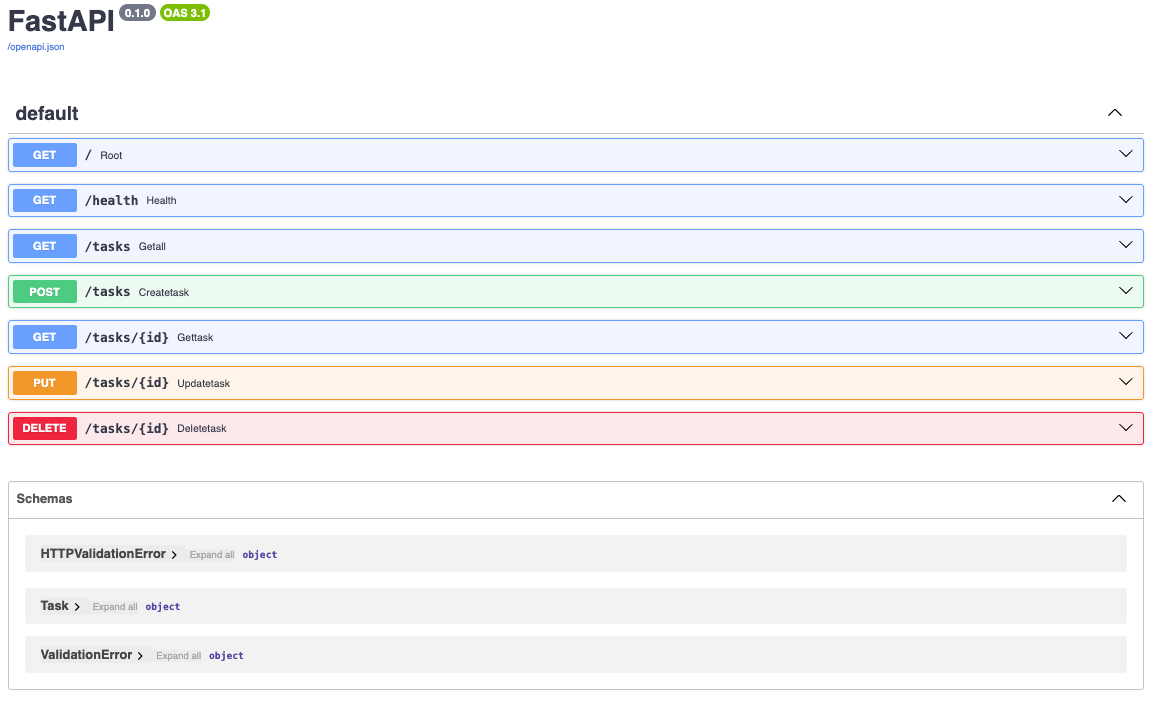
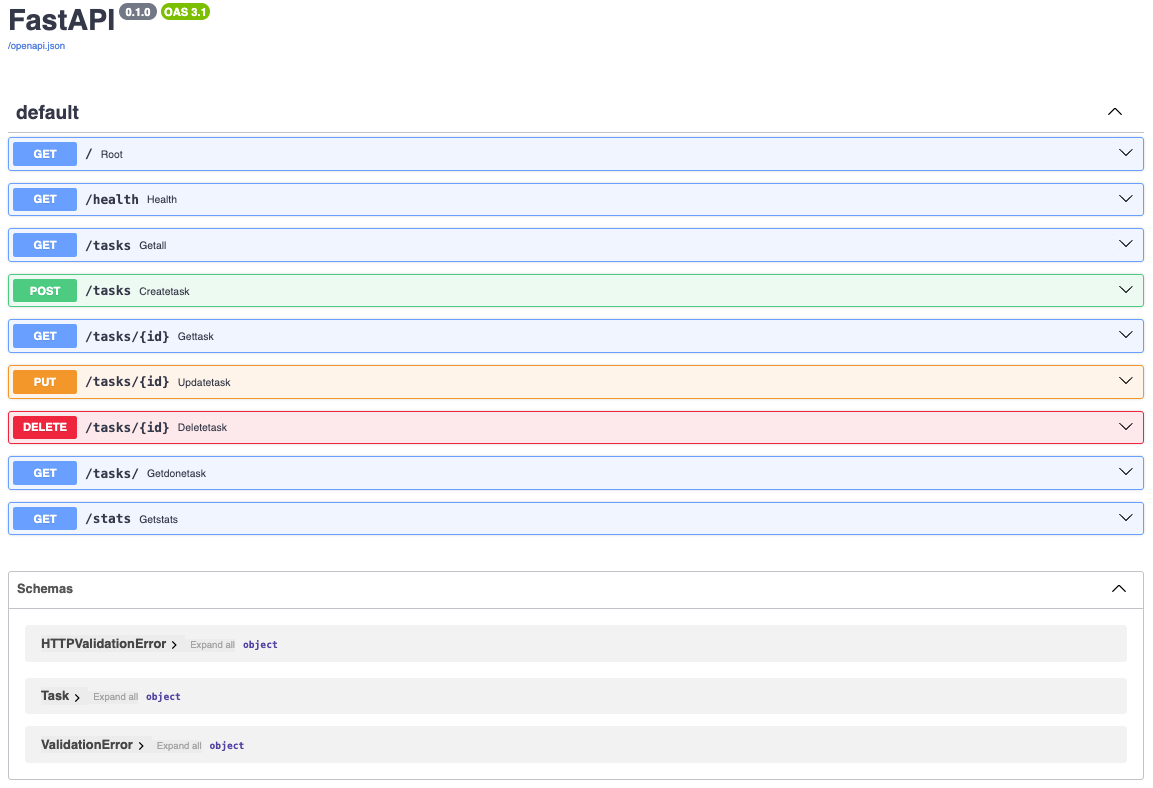
Extras: Query by done and Tasks stats

diff --git a/main.py b/main.py
@@ -34,6 +34,33 @@ async def getTask(id: int):
   else:
     raise HTTPException(status_code=404, detail={"error": f"Task {id} not found"})
 
+@app.get("/tasks/", description="Filter task by done")
+async def getDoneTask(done: bool = True):
+  doneTask = []
+
+  for i in range(len(tasks)):
+    if tasks[i].get("done") == done:
+      doneTask.append(tasks[i])
+
+  if not doneTask:
+    raise HTTPException(status_code=404, detail={"error": "No Task Found"})
+  
+  return doneTask
+
+@app.get("/stats", description="Provides stats of tasks")
+async def getStats():
+  if not tasks:
+    raise HTTPException(status_code=404, detail={"error": "No Task Found"})
+  
+  totalTask = len(tasks)
+  countDone = 0
+
+  for i in range(totalTask):
+    if tasks[i].get("done") == True:
+      countDone += 1
+
+  return {"total": totalTask, "done": countDone, "open": totalTask - countDone}
+
 @app.post("/tasks", status_code=201, description="Create a new task")
 async def createTask(task: Task):
   if not task.title.strip():

diff --git a/README.md b/README.md
@@ -52,15 +52,17 @@ The API will be available at:
 
 ## API Endpoints
 
-| Method | Endpoint      | Description             |
-| ------ | ------------- | ----------------------- |
-| GET    | `/`           | Home                    |
-| GET    | `/health`     | Check API status.       |
-| GET    | `/tasks`      | Retrieve all tasks      |
-| GET    | `/tasks/{id}` | Retrieve a task by ID   |
-| POST   | `/tasks`      | Create a new task       |
-| PUT    | `/tasks/{id}` | Update an existing task |
-| DELETE | `/tasks/{id}` | Delete a task           |
+| Method | Endpoint      | Description                   |
+| ------ | ------------- | ----------------------------- |
+| GET    | `/`           | Home                          |
+| GET    | `/health`     | Check API status.             |
+| GET    | `/tasks`      | Retrieve all tasks            |
+| GET    | `/tasks/{id}` | Retrieve a task by ID         |
+| GET    | `/tasks/`     | Retrieve all tasks by done    |
+| GET    | `/stats`      | Retrieve tasks stats by done  |
+| POST   | `/tasks`      | Create a new task             |
+| PUT    | `/tasks/{id}` | Update an existing task       |
+| DELETE | `/tasks/{id}` | Delete a task                 |
 
 ## Example Request
 
